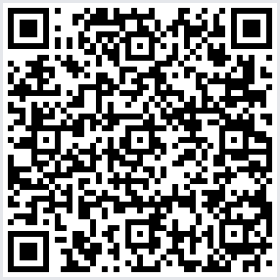
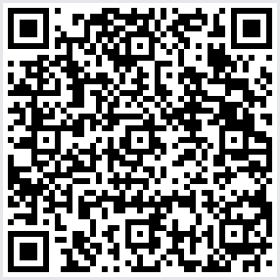
changin prices.

diff --git a/projects/landing_pages/grape/src/Pages/Main/index.jsx b/projects/landing_pages/grape/src/Pages/Main/index.jsx
@@ -58,8 +58,8 @@ export default function Main(){
             <main>
                 <section className="section-main-text">
                     <h1>Nós fazemos o melhor</h1>
-                    <p>Nós temos o melhor cookie do mercado feito com muito carinho para você!</p>
-                    <a className="btn-main" href='#cookies'>Comprar cookies</a>
+                    <p>Nós temos a melhor surpresa de uva do mercado feito com muito carinho para você!</p>
+                    <a className="btn-main" href='#cookies'>Comprar surpresas</a>
                 </section>
 
                 <section className="section-main-img">
@@ -102,7 +102,7 @@ export default function Main(){
                         
                         </div>
                         <div className="container-description-card">
-                        <p className="price-card">R$8,00</p>
+                        <p className="price-card">R$9,00</p>
                         <Link to='/surpresa-de-uva' className='btn-comprar'>Comprar</Link>
                         </div>
                     </div>
@@ -115,7 +115,7 @@ export default function Main(){
                         
                         </div>
                         <div className="container-description-card">
-                        <p className="price-card">R$8,00</p>
+                        <p className="price-card">R$9,00</p>
                         <Link to='/surpresa-de-uva' className='btn-comprar'>Comprar</Link>
                         </div>
                     </div>
@@ -128,7 +128,7 @@ export default function Main(){
                         
                         </div>
                         <div className="container-description-card">
-                        <p className="price-card">R$8,00</p>
+                        <p className="price-card">R$9,00</p>
                         <Link to='/surpresa-de-uva' className='btn-comprar'>Comprar</Link>
                         </div>
                     </div>

diff --git a/projects/landing_pages/grape/src/Pages/TraditionalGrape/index.jsx b/projects/landing_pages/grape/src/Pages/TraditionalGrape/index.jsx
@@ -31,7 +31,7 @@ export default function TraditionalGrape(){
                         </div>
                         <div className="container-description-card">
                         <h3 className='title-card'>Surpresa de Uva</h3>
-                        <p className="price-card">R$8,00</p>
+                        <p className="price-card">R$9,00</p>
                         </div>
                     </div>
 
@@ -41,7 +41,7 @@ export default function TraditionalGrape(){
 
                 <div className="container-pix-text">
                 <strong>Pix copia e cola:</strong>
-                    <p id='code-pix'>00020126330014BR.GOV.BCB.PIX01115464325581152040000530398654048.005802BR5901N6001C62140510SweetGrape6304FEA4</p>
+                    <p id='code-pix'>00020126330014BR.GOV.BCB.PIX01115464325581152040000530398654049.005802BR5901N6001C62140510SweetGrape63043877</p>
                     <button id='btn-copyCode' onClick={copyCode}>Copiar código</button>
                 </div>
                 <Link to='/' className='back-link'>Voltar à home</Link>
